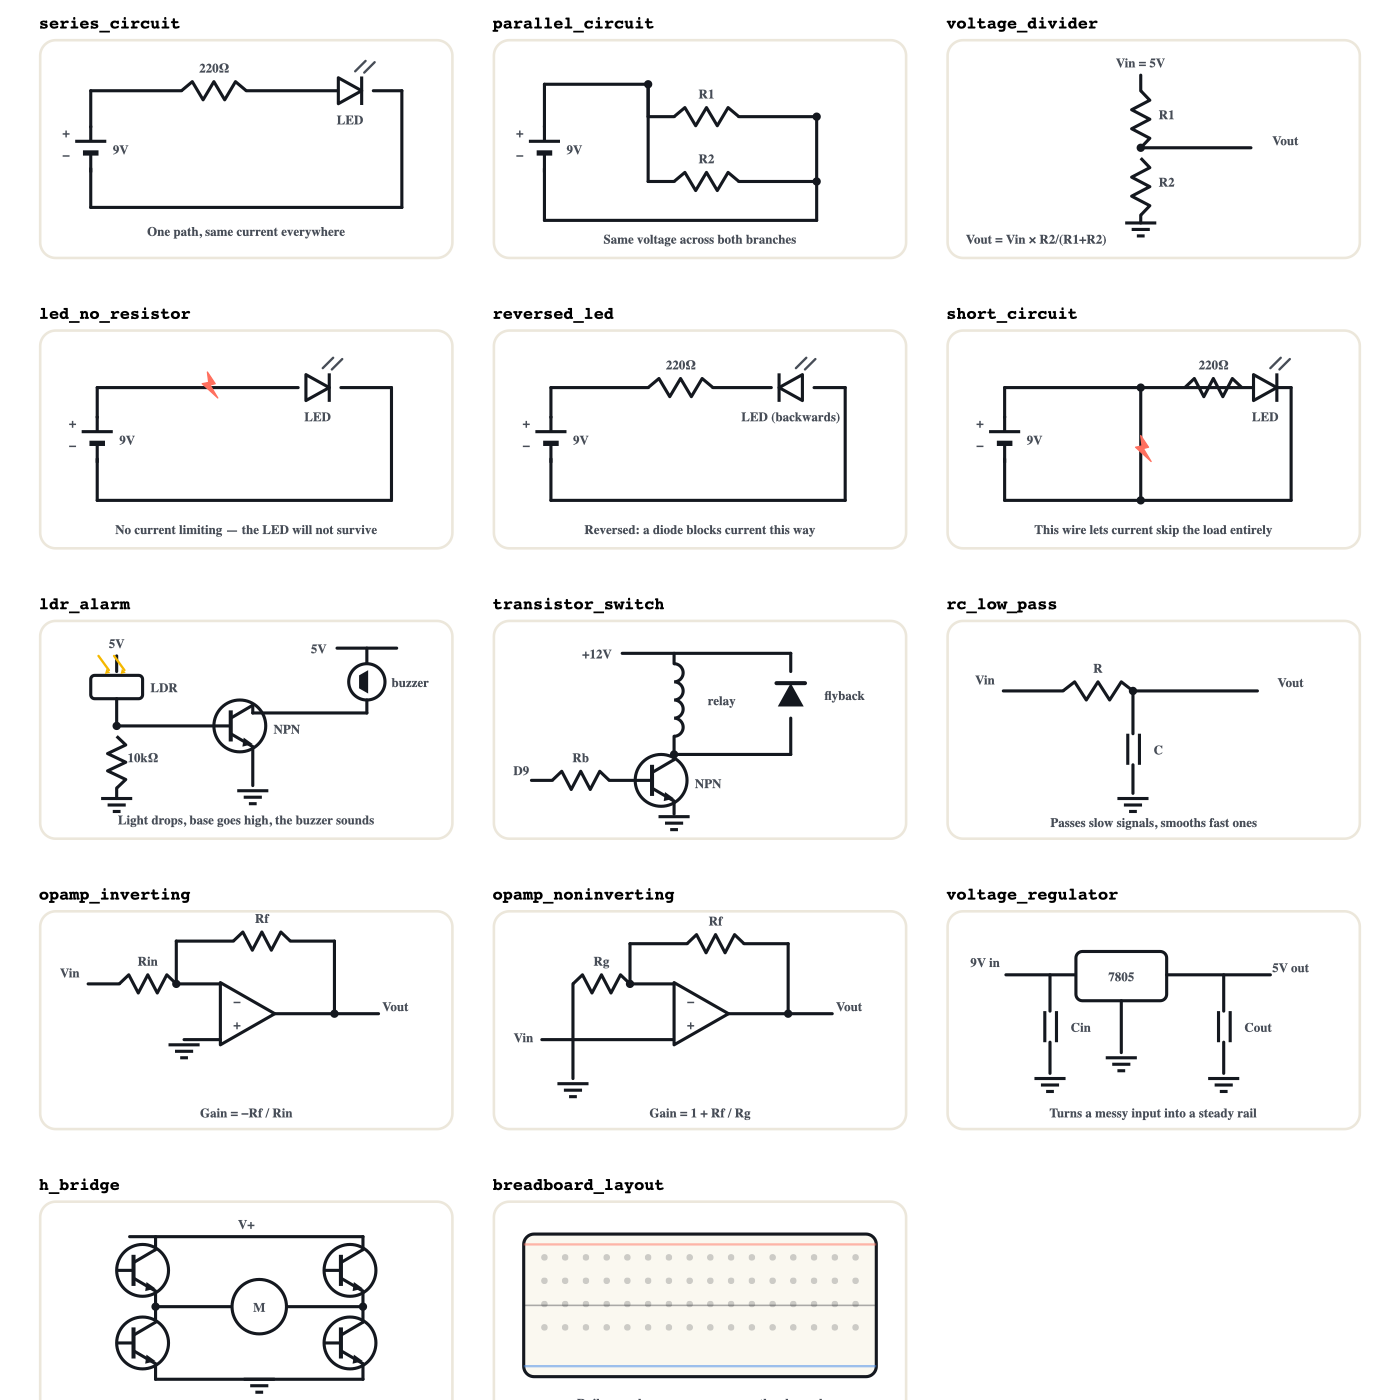
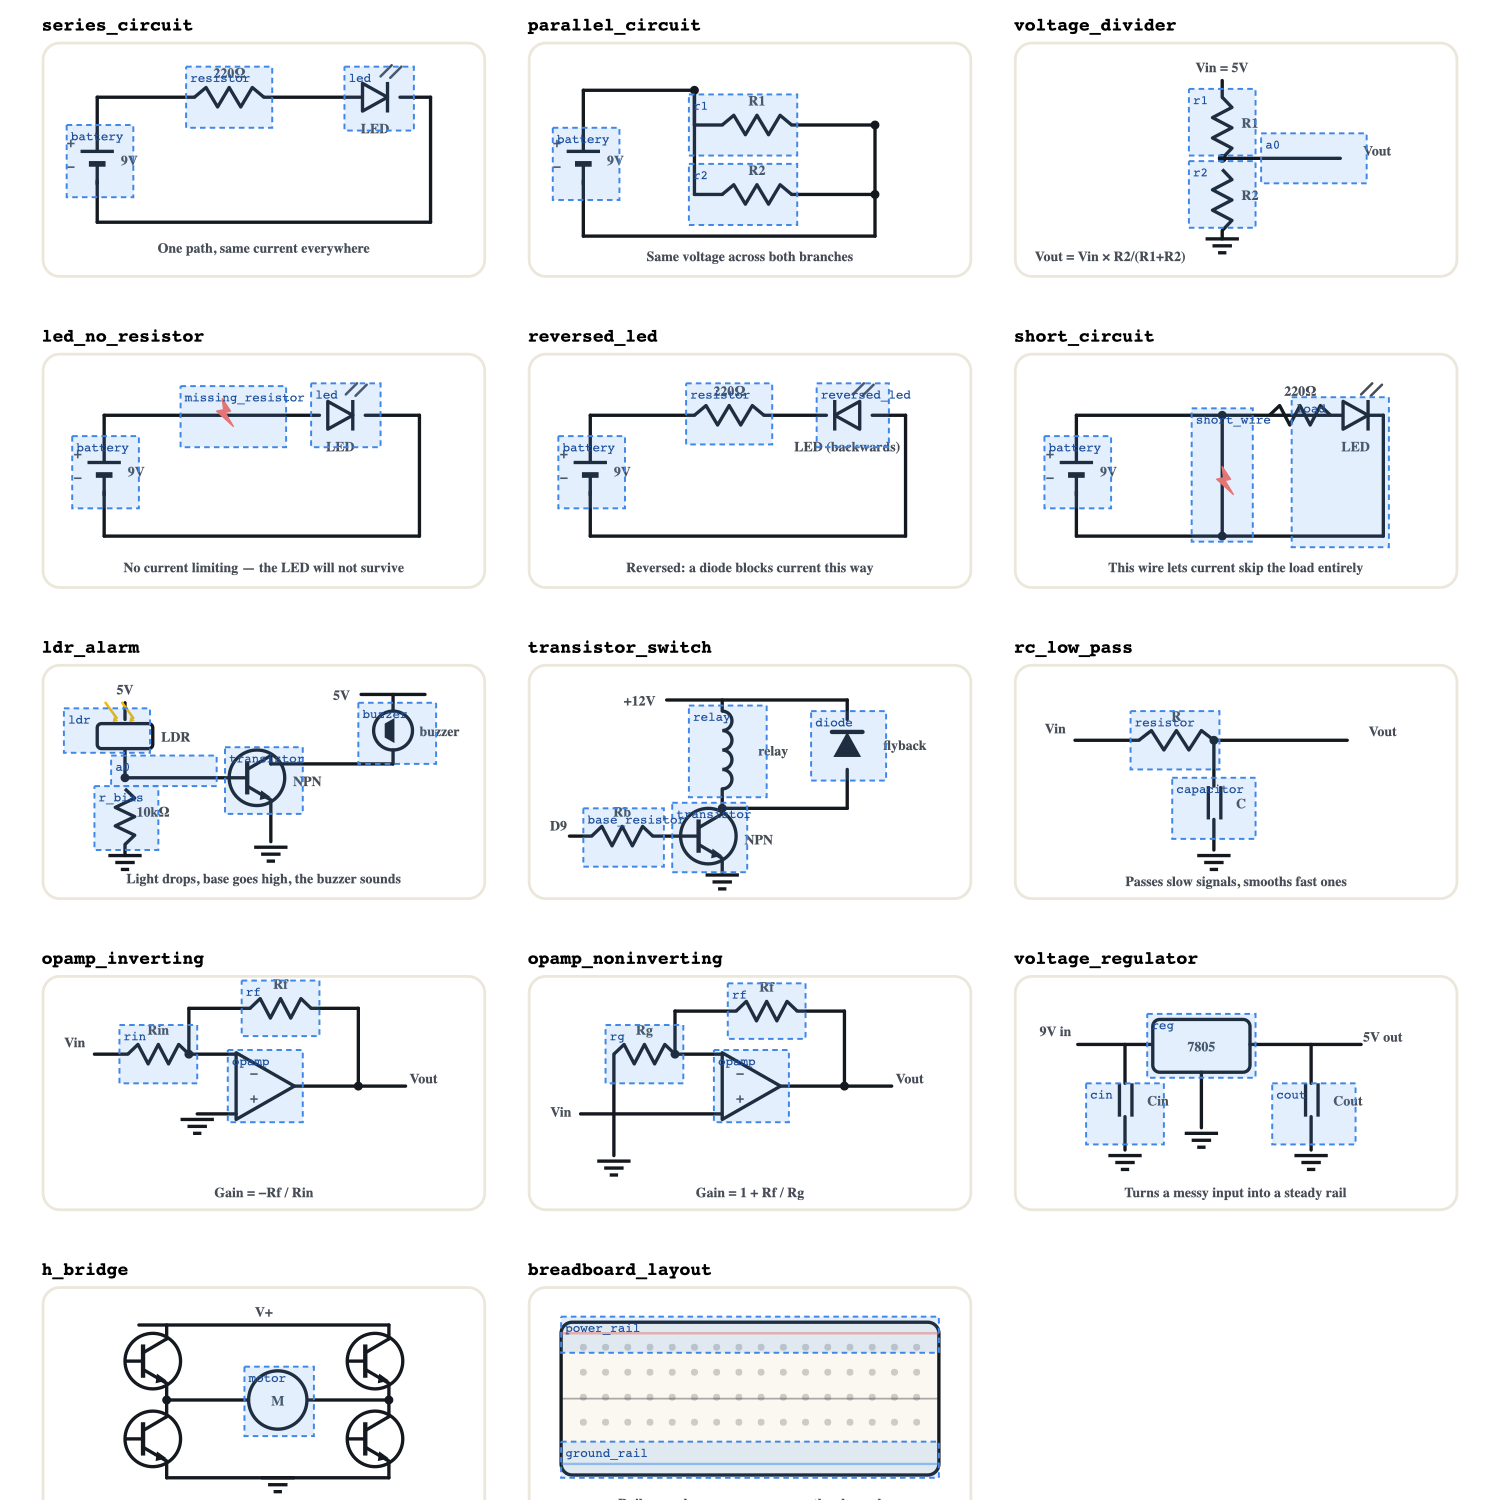
feat(circuits): hit areas for six more diagrams, recovering 24 dropped steps
identify_component steps are gated on the component having a tap target, so
every step naming a part of a diagram with no regions was being dropped: 27 of
the 48, including all eleven on ldr_alarm, which is the flagship LDR build.

Adds targets for ldr_alarm, voltage_divider, parallel_circuit, rc_low_pass,
voltage_regulator, opamp_inverting, opamp_noninverting, h_bridge and
breadboard_layout. 45 of 48 now render, up from 21.

Verified by LOOKING, not by reading coordinates. The contact-sheet renderer now
draws every tap target over its diagram, which immediately showed the ldr_alarm
"a0" box sitting beside the divider junction rather than over it — the one
component that step exists to ask about would have been untappable.

A geometry audit runs alongside it and caught three more: ldr overlapping a0 and
reg overlapping cin (ambiguous, since whichever renders last silently wins) and
both breadboard rails at 18px tall, under a fingertip. All 41 targets across 14
circuits are now non-overlapping and at least 40x22.

Three steps stay dropped, and they are a CURRICULUM defect rather than a missing
region: "click the part that produces the alarm output" and "the component that
limits current to the output LED" are asked against ldr_alarm, which has a
buzzer and no LED at all. Either the questions or the diagram needs authoring;
pointing the LED answer at a buzzer would be worse than dropping it.

Claude-Session: https://claude.ai/code/session_01VktW16TST1KkgfptudESST

diff --git a/mobile/src/components/circuits/CircuitDiagram.tsx b/mobile/src/components/circuits/CircuitDiagram.tsx
@@ -294,6 +294,61 @@ const REGIONS: Record<string, Region[]> = {
     { id: 'transistor', label: 'transistor', x: 104, y: 100, w: 54, h: 50 },
     { id: 'base_resistor', label: 'base resistor', x: 40, y: 104, w: 58, h: 42 },
   ],
+
+  // ── Added 2026-08-25 ──
+  //
+  // These circuits had no hit areas at all, so every identify_component step
+  // that used them was dropped by canRender: 25 steps across six diagrams,
+  // including all eleven on ldr_alarm, which is the flagship LDR build. The
+  // rectangles are sized to the drawn symbol plus a finger's margin, since a
+  // 20px component is not a tap target.
+  ldr_alarm: [
+    { id: 'ldr', label: 'the LDR', x: 16, y: 32, w: 62, h: 32 },
+    { id: 'r_bias', label: 'the 10k resistor', x: 38, y: 88, w: 46, h: 46 },
+    // The divider junction: the node the sketch would read on an analog pin.
+    // Must CONTAIN the node at (60,82), not sit beside it — the overlay showed
+    // the first attempt starting at x=82, so the junction itself was untappable.
+    { id: 'a0', label: 'the divider junction', x: 50, y: 66, w: 76, h: 22 },
+    { id: 'transistor', label: 'the transistor', x: 132, y: 60, w: 56, h: 48 },
+    { id: 'buzzer', label: 'the buzzer', x: 228, y: 28, w: 56, h: 44 },
+  ],
+  voltage_divider: [
+    { id: 'r1', label: 'R1', x: 126, y: 34, w: 48, h: 48 },
+    { id: 'r2', label: 'R2', x: 126, y: 86, w: 48, h: 48 },
+    { id: 'a0', label: 'the midpoint tap', x: 178, y: 66, w: 76, h: 36 },
+  ],
+  parallel_circuit: [
+    { id: 'battery', label: 'battery', x: 18, y: 62, w: 48, h: 52 },
+    { id: 'r1', label: 'R1', x: 116, y: 38, w: 78, h: 44 },
+    { id: 'r2', label: 'R2', x: 116, y: 88, w: 78, h: 44 },
+  ],
+  rc_low_pass: [
+    { id: 'resistor', label: 'the resistor', x: 84, y: 34, w: 64, h: 42 },
+    { id: 'capacitor', label: 'the capacitor', x: 114, y: 82, w: 60, h: 44 },
+  ],
+  voltage_regulator: [
+    { id: 'reg', label: 'the 7805 regulator', x: 96, y: 28, w: 78, h: 46 },
+    { id: 'cin', label: 'the input capacitor', x: 52, y: 78, w: 56, h: 44 },
+    { id: 'cout', label: 'the output capacitor', x: 186, y: 78, w: 60, h: 44 },
+  ],
+  opamp_inverting: [
+    { id: 'opamp', label: 'the op-amp', x: 134, y: 54, w: 54, h: 52 },
+    { id: 'rin', label: 'Rin', x: 56, y: 36, w: 56, h: 42 },
+    { id: 'rf', label: 'Rf', x: 144, y: 4, w: 56, h: 40 },
+  ],
+  opamp_noninverting: [
+    { id: 'opamp', label: 'the op-amp', x: 134, y: 54, w: 54, h: 52 },
+    { id: 'rg', label: 'Rg', x: 56, y: 36, w: 56, h: 42 },
+    { id: 'rf', label: 'Rf', x: 144, y: 6, w: 56, h: 40 },
+  ],
+  h_bridge: [
+    { id: 'motor', label: 'the motor', x: 146, y: 58, w: 50, h: 50 },
+  ],
+  breadboard_layout: [
+    // The two supply rails run the full width at the top and bottom of the board.
+    { id: 'power_rail', label: 'the positive rail', x: 24, y: 22, w: 272, h: 26 },
+    { id: 'ground_rail', label: 'the ground rail', x: 24, y: 112, w: 272, h: 26 },
+  ],
 };
 
 /** Region ids a learner can tap on `circuit`, or [] if it has none. */

diff --git a/mobile/scripts/render-circuits-entry.tsx b/mobile/scripts/render-circuits-entry.tsx
@@ -1,6 +1,6 @@
 import React from 'react';
 import { renderToStaticMarkup } from 'react-dom/server';
-import { CIRCUITS } from '../src/components/circuits/CircuitDiagram';
+import { CIRCUITS, regionsFor } from '../src/components/circuits/CircuitDiagram';
 
 export function sheet() {
   const keys = Object.keys(CIRCUITS);
@@ -11,8 +11,16 @@ export function sheet() {
     const y = PAD + Math.floor(i / COLS) * (H + PAD + LABEL);
     const D = CIRCUITS[k];
     const inner = renderToStaticMarkup(React.createElement(D)).replace(/^<svg[^>]*>|<\/svg>$/g, '');
+    // Tap targets drawn over the diagram. A hit area is invisible in the app, so
+    // the only way to know a rectangle actually covers its component is to look
+    // at it — coordinates that read fine in source can sit 40px off the symbol.
+    const hits = regionsFor(k).map((r) =>
+      `<rect x="${r.x}" y="${r.y}" width="${r.w}" height="${r.h}" fill="#549cf0" fill-opacity="0.16"`
+      + ` stroke="#3e86e8" stroke-width="1.4" stroke-dasharray="4 3"/>`
+      + `<text x="${r.x + 3}" y="${r.y + 11}" font-family="monospace" font-size="9" fill="#1d4f9c">${r.id}</text>`,
+    ).join('');
     return `<text x="${x}" y="${y - 8}" font-family="monospace" font-size="13" font-weight="bold">${k}</text>
-            <g transform="translate(${x},${y})">${inner}</g>`;
+            <g transform="translate(${x},${y})">${inner}${hits}</g>`;
   });
   const w = PAD + COLS * (W + PAD), h = PAD + rows * (H + PAD + LABEL);
   return `<svg xmlns="http://www.w3.org/2000/svg" width="${w}" height="${h}" viewBox="0 0 ${w} ${h}"><rect width="${w}" height="${h}" fill="#fff"/>${parts.join('')}</svg>`;
